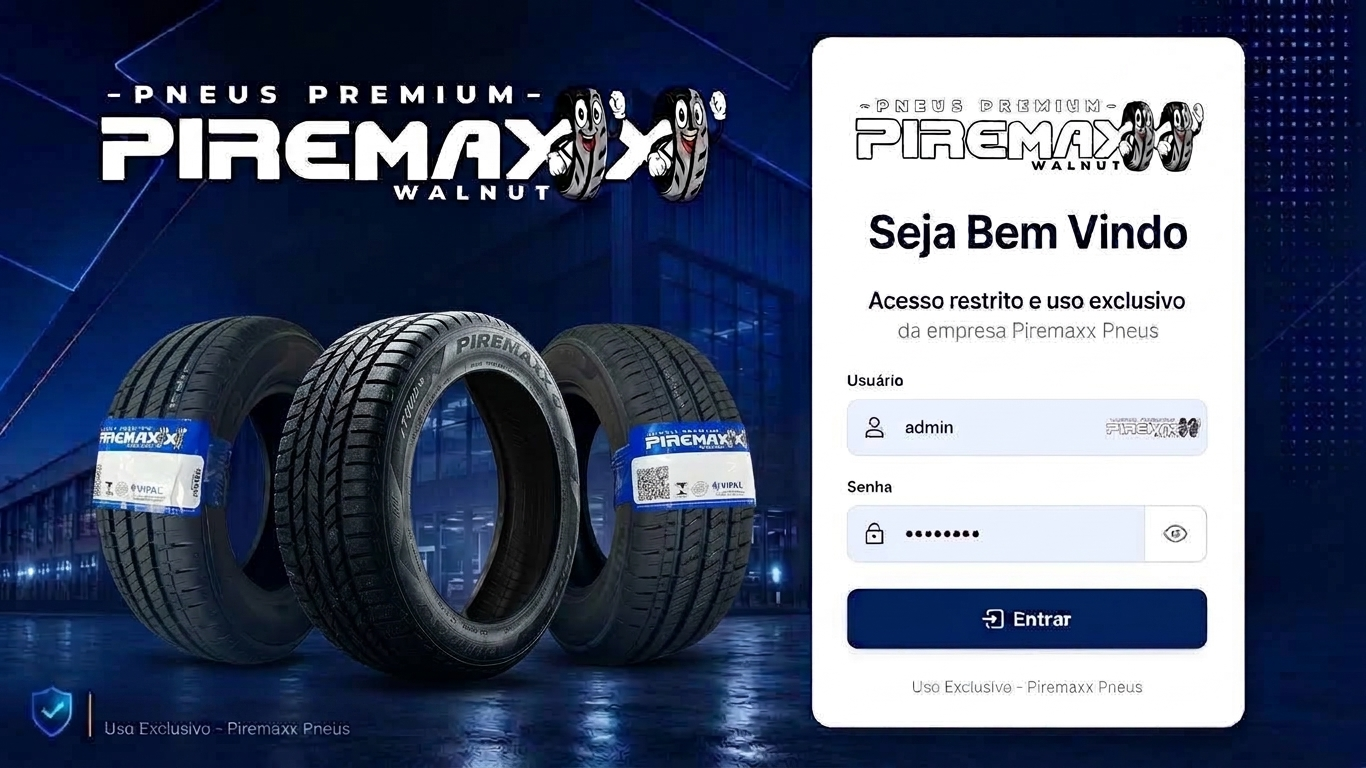
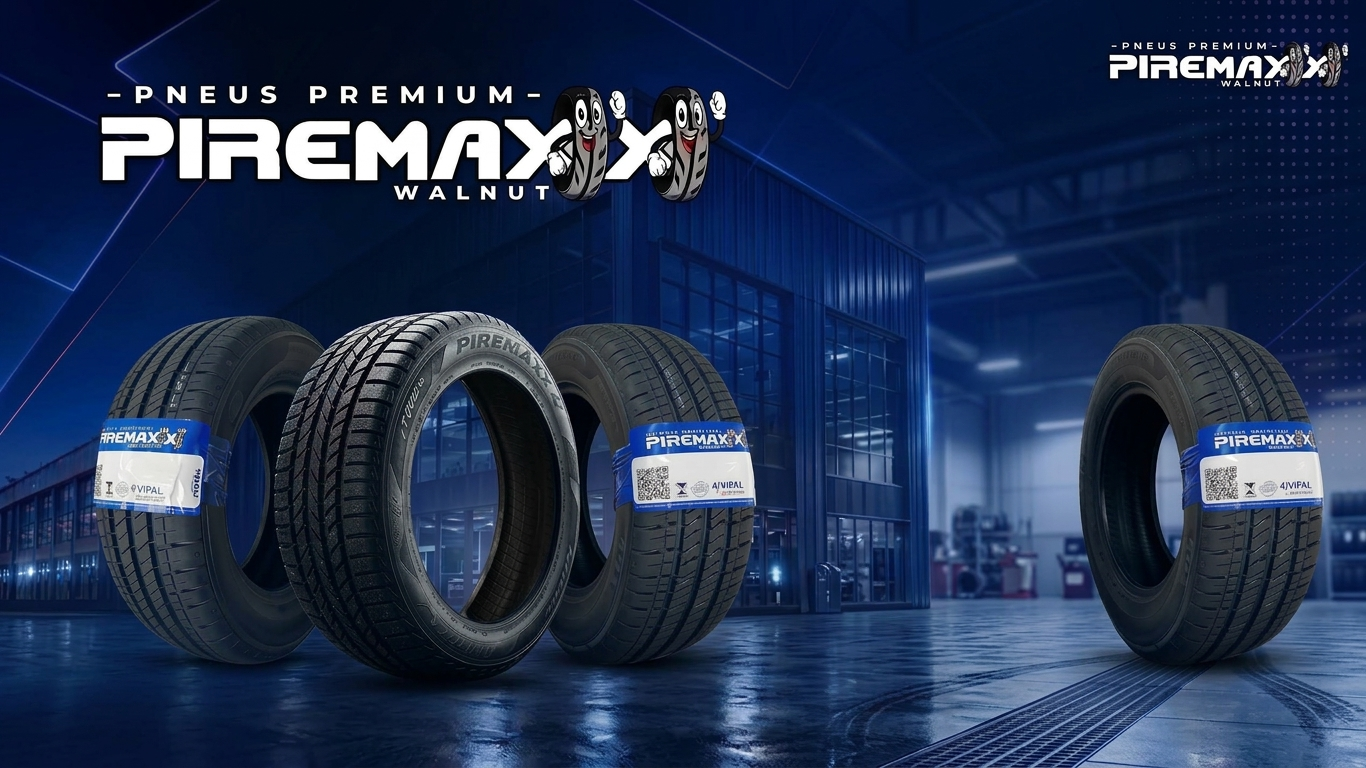
Ajustar fundo e posição do login

diff --git a/styles.css b/styles.css
@@ -18,4 +18,4 @@
 .visit-collapsed{display:none}.collapsible-visit-title{cursor:pointer}.collapsible-visit-title::after{content:'›';margin-left:auto;font-size:20px}.collapsible-visit-title:has(+ .visit-collapsed)::after{transform:rotate(90deg)}
 .visit-photo{grid-row:span 2;color:#48617b;font-size:12px;display:grid;gap:6px;align-content:start}.visit-photo .image-circle{width:70px;height:70px;border:2px solid #4965ba;border-radius:5px;display:grid;place-items:center;font-size:28px;color:#8b8f96;background:#f5f6f8}
 .history-box{display:grid;gap:14px}.history-help{margin:0;color:#66717d}.history-table{overflow:auto;max-height:55vh}.history-table .table th,.history-table .table td{white-space:nowrap}
-.login-screen{background:#031432 url("login-background.jpg") center/cover no-repeat;position:relative;align-items:center;justify-content:flex-end;padding:clamp(20px,5vw,72px)}.login-screen::before{content:"";position:absolute;inset:0;background:linear-gradient(90deg,#020c20aa 0%,#04142c55 48%,#00112a22 100%)}.login-card{position:relative;z-index:1;width:min(440px,100%);border:0;border-radius:24px;padding:34px 36px 28px;box-shadow:0 18px 55px #0008}.login-brand{padding:0 0 18px}.login-logo{max-height:82px}.login-card h1{font-size:30px;margin:8px 0 12px}.login-kicker{display:none}.login-help{font-size:16px;line-height:1.45;margin-bottom:26px}.login-help span{color:#69727e}.login-card label{color:#1d2836;font-size:13px}.login-card input{background:#eef3fb;border-color:#d7e0ed;border-radius:10px;padding:14px}.login-button{background:#073b91;border-radius:10px;padding:14px;font-size:16px}.login-foot{color:#6f7884}@media(max-width:700px){.login-screen{justify-content:center;padding:18px}.login-card{padding:28px 24px}}.login-screen::after{content:"";position:absolute;z-index:1;top:0;right:0;width:43%;height:100%;background:#061735e8}.login-card{z-index:2}@media(max-width:700px){.login-screen::after{width:100%;background:#06173588}}
+.login-screen{background:#031432 url("login-background.jpg") center/cover no-repeat;position:relative;align-items:center;justify-content:flex-end;padding:clamp(20px,5vw,72px)}.login-screen::before{content:"";position:absolute;inset:0;background:linear-gradient(90deg,#020c20aa 0%,#04142c55 48%,#00112a22 100%)}.login-card{position:relative;z-index:1;width:min(440px,100%);border:0;border-radius:24px;padding:34px 36px 28px;box-shadow:0 18px 55px #0008}.login-brand{padding:0 0 18px}.login-logo{max-height:82px}.login-card h1{font-size:30px;margin:8px 0 12px}.login-kicker{display:none}.login-help{font-size:16px;line-height:1.45;margin-bottom:26px}.login-help span{color:#69727e}.login-card label{color:#1d2836;font-size:13px}.login-card input{background:#eef3fb;border-color:#d7e0ed;border-radius:10px;padding:14px}.login-button{background:#073b91;border-radius:10px;padding:14px;font-size:16px}.login-foot{color:#6f7884}@media(max-width:700px){.login-screen{justify-content:center;padding:18px}.login-card{padding:28px 24px}}.login-screen::after{content:"";position:absolute;z-index:1;top:0;right:0;width:43%;height:100%;background:#061735e8}.login-card{z-index:2}@media(max-width:700px){.login-screen::after{width:100%;background:#06173588}}.login-screen{justify-content:flex-start}.login-screen::after{left:0;right:auto;width:43%}@media(max-width:700px){.login-screen{justify-content:center}.login-screen::after{left:0;right:0;width:100%}}.login-screen{justify-content:flex-end}.login-screen::after{left:auto;right:0;width:43%}.login-screen{background-image:url("login-background.jpg?v=2")}@media(max-width:700px){.login-screen{justify-content:center}.login-screen::after{left:0;right:0;width:100%}}

diff --git a/index.html b/index.html
@@ -2,7 +2,7 @@
 <html lang="pt-BR">
 <head>
   <meta charset="utf-8"><meta name="viewport" content="width=device-width,initial-scale=1">
-  <title>Piremaxx</title><meta name="theme-color" content="#172a3d"><meta name="description" content="Central de operações Piremaxx"><meta name="mobile-web-app-capable" content="yes"><meta name="apple-mobile-web-app-capable" content="yes"><meta name="apple-mobile-web-app-status-bar-style" content="black-translucent"><link rel="manifest" href="manifest.webmanifest"><link rel="icon" href="logo-oficial.png"><link rel="stylesheet" href="styles.css?v=10">
+  <title>Piremaxx</title><meta name="theme-color" content="#172a3d"><meta name="description" content="Central de operações Piremaxx"><meta name="mobile-web-app-capable" content="yes"><meta name="apple-mobile-web-app-capable" content="yes"><meta name="apple-mobile-web-app-status-bar-style" content="black-translucent"><link rel="manifest" href="manifest.webmanifest"><link rel="icon" href="logo-oficial.png"><link rel="stylesheet" href="styles.css?v=12">
 </head>
 <body>
   <section id="login-screen" class="login-screen"><div class="login-card"><div class="login-brand"><img class="logo-image login-logo" src="logo-oficial.png" alt="Piremaxx - Pneus Premium"></div><p class="login-kicker">CENTRAL DE OPERAÇÕES</p><h1>Seja Bem-Vindo</h1><p class="login-help">Acesso restrito e uso exclusivo<br><span>da empresa Piremaxx Pneus</span></p><form id="login-form"><label>Usuário<input id="login-user" autocomplete="username" required></label><label>Senha<input id="login-password" type="password" autocomplete="current-password" required></label><button class="btn login-button">Acessar sistema</button><p id="login-error" class="login-error"></p></form><small class="login-foot">Ambiente independente Piremaxx</small></div></section>

diff --git a/service-worker.js b/service-worker.js
@@ -1,5 +1,5 @@
-const CACHE_NAME='piremaxx-shell-v21';
-const APP_SHELL=['./','./index.html','./styles.css?v=10','./app.js?v=15','./manifest.webmanifest','./logo-oficial.png','./Cadastro_Clientes.csv','./Cadastro_Itens.csv','./login-background.jpg','./logo-oficial-2.png'];
+const CACHE_NAME='piremaxx-shell-v23';
+const APP_SHELL=['./','./index.html','./styles.css?v=12','./app.js?v=15','./manifest.webmanifest','./logo-oficial.png','./Cadastro_Clientes.csv','./Cadastro_Itens.csv','./login-background.jpg','./login-background.jpg?v=2','./logo-oficial-2.png'];
 self.addEventListener('install',event=>{event.waitUntil(caches.open(CACHE_NAME).then(cache=>cache.addAll(APP_SHELL)).then(()=>self.skipWaiting()))});
 self.addEventListener('activate',event=>{event.waitUntil(caches.keys().then(keys=>Promise.all(keys.filter(key=>key!==CACHE_NAME).map(key=>caches.delete(key)))).then(()=>self.clients.claim()))});
 self.addEventListener('fetch',event=>{if(event.request.method!=='GET')return;event.respondWith(caches.match(event.request).then(cached=>cached||fetch(event.request).then(response=>{if(response.ok&&new URL(event.request.url).origin===self.location.origin){let copy=response.clone();caches.open(CACHE_NAME).then(cache=>cache.put(event.request,copy))}return response}).catch(()=>caches.match('./index.html'))))});
